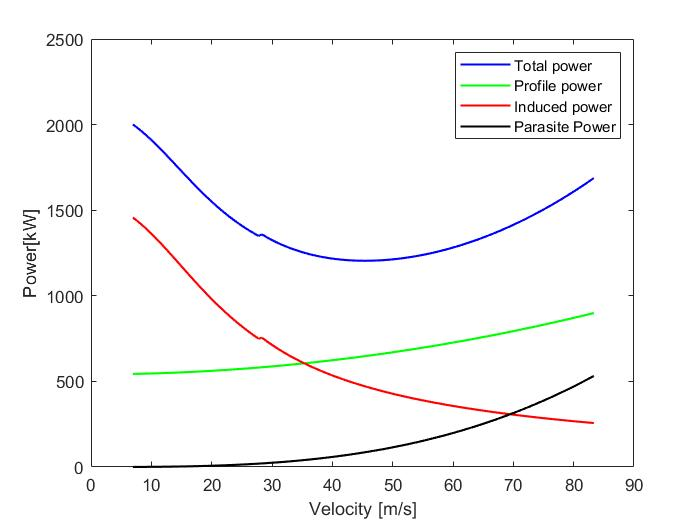
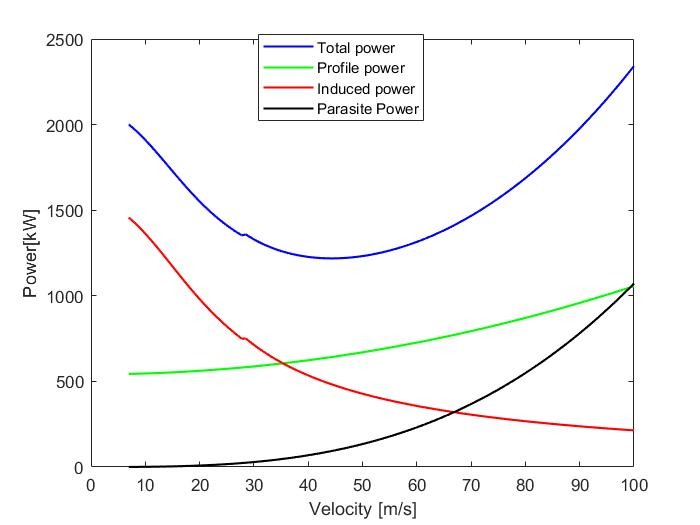
final

diff --git a/power_forward_flight.m b/power_forward_flight.m
@@ -1,7 +1,7 @@
 
 %% rotor powe for forward flight
 V = [V_l V_h(2:end)];
-v_i_bar_all = [vi_bar_low v_i_bar_h(2:end)];
+v_i_m = [v_i_low v_i_high(2:end)];
 sigma = 0.082;
 sigma_t = 0.188;
 gammaR = 220.98;
@@ -16,12 +16,12 @@ c_t = 0.265;
 c = 0.53;
 R_e = 0.87*R;
 R_e_t = 0.97*R_t;
-l_t = 9.926;
+l_t = 9.9276;
 P_hover = 1.956*10^6;
 T =W;
 T_t = P_hover/(gamma*l_t);
 P_para = CDS*0.5*rho*V.*V.*V/1000;
-p_i = 1.15 *W *vi_hover*v_i_bar_all/1000;
+p_i = 1.15 *W *v_i_m/1000; % induced power rotor
 Ct_m = T/(rho*pi*R^2*(gammaR)^2);
 Cl_bar_m = 6.6*Ct_m/sigma;
 C_d_bar = 0.019;
@@ -42,7 +42,7 @@ vi_hover_t = sqrt(T_t/(2*pi*rho*R_t^2));
 
 
 %% forward flight highspeed tail
-V_h = linspace(100 ,300,100)*1000/3600;
+V_h = linspace(100 ,360,100)*1000/3600;
 V_bar_h_t = V_h/vi_hover_t;
 CDS = 1.5;
 D_fus_h = CDS*0.5*rho*V_h.*V_h;
@@ -54,7 +54,7 @@ v_i_bar_h_t = v_i_high_t/vi_hover_t;
 %% forward flight low speed tail
 V_l = linspace(25 ,100,100)*1000/3600;
 V_bar_l_t = V_l/vi_hover_t;
-CDS = 1.5;
+CDS = 1.75;
 D_fus_l = CDS*0.5*rho*V_l.*V_l;
 alpha_l = asind(D_fus_l/W);
 %Approximationg for low speed
@@ -66,9 +66,16 @@ v_i_bar_t = [vi_bar_low_t v_i_bar_h_t(2:end)];
 %% tail rotor power forward bem
 Ct_m = T_t/(rho*pi*R_t^2*(gammaR_t)^2);
 Cl_bar_t = 6.6*Ct_m/sigma_t;
-C_d_bar_T = 0.019;
-p_tail = (1.1*1.3*T_t*v_i_bar_t+sigma_t * C_d_bar_t*1.225*(gammaR_t)^3*pi*R_t^2*(1+4.65*mu_t.^2)/8)/1000;
+C_d_bar_t = 0.012;
+P_tail = (1.1*1.3*T_t*v_i_bar_t+sigma_t * C_d_bar_t*1.225*(gammaR_t)^3*pi*R_t^2*(1+4.65*mu_t.^2)/8)/1000;
 figure(2)
-plot(V,p_tail,'LineWidth',1.25)
+plot(V,P_tail,'LineWidth',1.25)
 xlabel('Velocity [m/s]')
 ylabel('Power[kW]')
+figure(3)
+p_total_1 = (P_pro +p_i + P_para+P_tail);
+figure(3)
+plot(V,p_total,'b',V,P_pro,'g',V,p_i,'r',V,P_para,'k',V,P_tail,'LineWidth',1.25)
+xlabel('Velocity [m/s]')
+ylabel('Power[kW]')
+legend('Total power','Profile power','Induced power','Parasite Power','Tail rotor power')

diff --git a/induced_velocity.m b/induced_velocity.m
@@ -1,8 +1,8 @@
 %% Helicopter Performance assignment 1 calculations
 %hover
 g = 9.81;
-MTOW = 9979 * g;
-W = MTOW;
+MTOW = 9979;
+W = MTOW*g;
 rho = 1.225;
 R = 8.18;
 
@@ -10,9 +10,9 @@ vi_hover = sqrt(W/(2*pi*rho*R^2));
 
 
 %% forward flight highspeed
-V_h = linspace(100 ,300,100)*1000/3600;
+V_h = linspace(100 ,360,100)*1000/3600;
 V_bar_h = V_h/vi_hover;
-CDS = 1.5;
+CDS = 1.75;
 D_fus_h = CDS*0.5*rho*V_h.*V_h;
 alpha_h = asind(D_fus_h/W);
 %for high speed V= V_r
@@ -22,7 +22,7 @@ v_i_bar_h = v_i_high/vi_hover;
 %% forward flight low speed
 V_l = linspace(25 ,100,100)*1000/3600;
 V_bar_l = V_l/vi_hover;
-CDS = 1.5;
+CDS = 1.75;
 D_fus_l = CDS*0.5*rho*V_l.*V_l;
 alpha_l = asind(D_fus_l/W);
 %Approximationg for low speed
